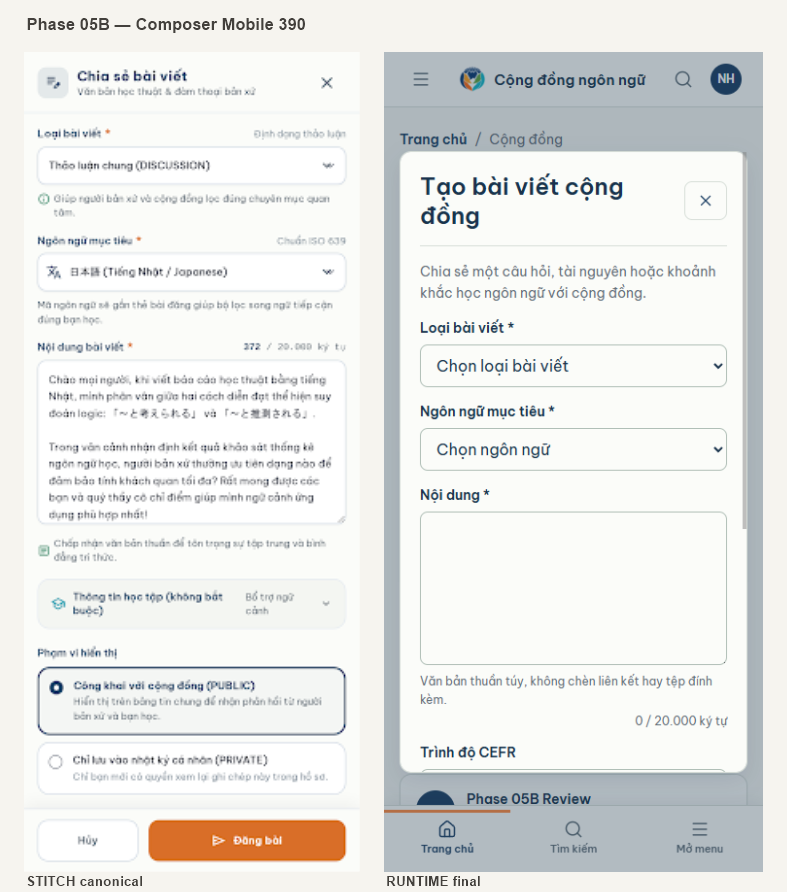
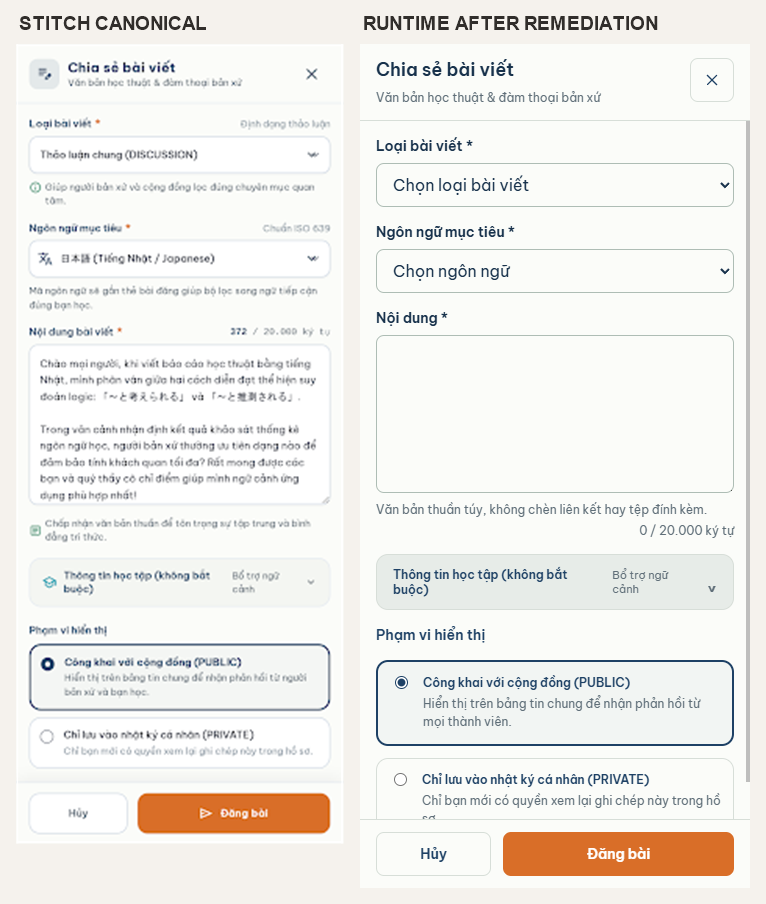
docs(phase-05): record composer visual remediation

diff --git a/evidence/phase-05b/COMPOSER-VISUAL-REMEDIATION-2026-09-14.md b/evidence/phase-05b/COMPOSER-VISUAL-REMEDIATION-2026-09-14.md
@@ -1,0 +1,172 @@
+# Phase 05B — Composer Visual Fidelity Remediation
+
+Date: 2026-09-14
+
+This is an appended Phase 05B evidence record. Existing Feed, migration,
+language-seed, API, and Phase 05A history is preserved. Canonical Stitch
+screens were reused without regeneration.
+
+## Scope and safety
+
+FRONTEND_BASELINE=89ed2da56112764d0c3652425639b77888a45a81
+FRONTEND_REMEDIATION_SHA=00727560aa5886f5780a58ba6d46746254c29248
+WORKSPACE_BASELINE=d44c9b71354b06d105d059937d7d237e7781e25b
+BACKEND_SHA=85066b6c9e75a7f8a4339d2cc8415a7c627c7494
+DATABASE_TEST_AUTHORIZED=YES
+PRODUCTION_DATABASE_TOUCHED=NO
+BACKEND_SOURCE_CHANGED=NO
+MIGRATIONS_CHANGED=NO
+FEED_SOURCE_CHANGED=NO
+
+The runtime used the existing authenticated session and the owner-authorized
+Neon TEST database. No credentials, production data, migrations, or unrelated
+records were changed.
+
+## Canonical Stitch references
+
+STITCH_PROJECT=3718538619973058970
+COMPOSER_STITCH_DESKTOP=b7320fdfb139424e84e11d42f42a4525
+COMPOSER_STITCH_MOBILE=93e2741039e446938f56a1341980c77d
+
+## Remediation applied
+
+- Composer title and desktop/mobile description now match the canonical
+  product copy.
+- Optional CEFR and topic fields are grouped under the canonical learning
+  information section; the section is expanded on desktop and collapsed on
+  mobile when opened.
+- Visibility uses accessible PUBLIC/PRIVATE radio cards with the backend
+  contract values unchanged.
+- Publish and Cancel are rendered in a fixed dialog footer, with the mobile
+  two-column action ratio and safe-area padding.
+- Composer uses a fixed header/footer with one internal scroll region and
+  locks page-body scrolling while open.
+- No title, media, upload, rich-text, autosave, comment, detail, or other
+  unsupported feature was added.
+
+## Runtime captures
+
+Canonical rasters, final runtime captures, and side-by-side comparisons:
+
+- evidence/phase-05b/composer_stitch_desktop.png
+- evidence/phase-05b/composer_runtime_desktop.png
+- evidence/phase-05b/composer_side_by_side.png
+- evidence/phase-05b/composer_stitch_mobile.png
+- evidence/phase-05b/composer_runtime_mobile.png
+- evidence/phase-05b/composer_mobile_side_by_side.png
+
+Historical pre-remediation captures were preserved as
+composer_runtime_desktop_before-remediation.png,
+composer_runtime_mobile_before-remediation.png,
+composer_side_by_side_before-remediation.png, and
+composer_mobile_side_by_side_before-remediation.png.
+
+## Desktop comparison
+
+DESKTOP_RUNTIME_VIEWPORT=1440x900
+DESKTOP_DIALOG_GEOMETRY=700px wide; x=370; y=67.5; height=765px
+DESKTOP_BODY_SCROLL=clientHeight=574px; scrollHeight=746px; overflow-y=auto
+DESKTOP_FOOTER=bottom-fixed within dialog; Publish and Cancel remain reachable
+DESKTOP_BODY_SCROLL_LOCK=body overflow hidden
+VISUAL_COMPOSER_DESKTOP=PASS
+DESKTOP_MATERIAL_DIFFERENCES=NONE
+
+The runtime preserves the canonical field order, title hierarchy, grouped
+optional metadata, visibility treatment, fixed footer action placement, and
+internal scrolling model. The Feed remains visible behind the modal without
+being structurally changed.
+
+## Mobile comparison
+
+MOBILE_RUNTIME_VIEWPORT=390x844
+MOBILE_DIALOG_GEOMETRY=full-screen 390px by 844px sheet
+MOBILE_HEADER_HEIGHT=76.59px
+MOBILE_BODY_SCROLL=clientHeight=698px; scrollHeight=737px; overflow-y=auto
+MOBILE_FOOTER=bottom-fixed; 1fr Cancel / 2fr Publish; safe-area padding
+MOBILE_BODY_SCROLL_LOCK=body overflow hidden
+MOBILE_HORIZONTAL_OVERFLOW=none
+VISUAL_COMPOSER_390=PASS
+MOBILE_MATERIAL_DIFFERENCES=NONE
+
+The learning-information disclosure is collapsed on initial mobile open,
+visibility cards stack without clipping, and both actions remain reachable
+inside the viewport.
+
+## Functional and runtime regression
+
+COMPOSER_AUTH_SESSION=PASS
+EMPTY_REQUIRED_VALIDATION=PASS
+WHITESPACE_ONLY_VALIDATION=PASS
+PRIVATE_VISIBILITY_CONTRACT=PASS
+PUBLISH_AFTER_REMEDIATION=PASS
+PUBLISH_REQUEST=POST /api/v1/community/posts -> 201
+FEED_CARDS_BEFORE_PUBLISH=5
+FEED_CARDS_AFTER_PUBLISH=6
+MATCHING_NEW_TEST_CARD=1
+TEST_POSTS_ADDED_BY_THIS_REMEDIATION=1
+VISUAL_REVIEW_DATA=NEON_TEST_ONLY
+
+The new post was created through the live Composer path against the real
+Backend. It produced one matching Feed card and no duplicate card. The
+existing Phase 05B TEST review data remains in place; no broad cleanup ran.
+
+The earlier Phase 05B evidence remains the source for the already-passed
+language filter, cursor, Helpful, Save, Share, Report, API, and authentication
+checks. The Feed visual locks remain unchanged:
+
+FEED_VISUAL_1440=PASS
+FEED_VISUAL_390=PASS
+
+## Responsive and accessibility checks
+
+RESPONSIVE_320=PASS
+RESPONSIVE_375=PASS
+RESPONSIVE_390=PASS
+RESPONSIVE_412=PASS
+RESPONSIVE_768=PASS
+RESPONSIVE_1024=PASS
+RESPONSIVE_1440=PASS
+
+All checked widths had no horizontal overflow. The dialog had one scrollable
+content region, no body-scroll leakage, no clipped actions, and no nested
+scrollbar introduced by the remediation. Long Vietnamese and CJK content
+remained readable in the existing Feed review.
+
+ACCESSIBILITY=PASS
+Accessibility tree review confirmed dialog naming, field labels, radio-group
+semantics, validation alerts, focus containment while open, focus restoration
+after Cancel, visible action targets, and mobile reachability.
+
+LIGHTHOUSE_FEED_SNAPSHOT=Accessibility 100; Best Practices 100; SEO 100; Agentic Browsing 100; 38 passed; 0 failed
+LIGHTHOUSE_COMPOSER_OPEN_SNAPSHOT=Accessibility 97; Best Practices 100; SEO 100; Agentic Browsing 100; supporting snapshot only
+
+APPLICATION_CONSOLE_ERRORS=0
+UNEXPECTED_NETWORK_ERRORS=0
+NETWORK_RUNTIME=real local Frontend -> real local Backend; community feed 200 and publish 201
+
+## Verification and delivery state
+
+TESTS=25 files; 109 tests passed
+TYPECHECK=PASS
+LINT=PASS
+BUILD=PASS
+AUDIT=0 vulnerabilities at high threshold
+
+PHASE_05=IN_PROGRESS
+LNG_05_001=DONE
+LNG_05_002=VERIFYING
+LNG_05_003=VERIFYING
+LNG_05_004=VERIFYING
+LNG_05_005=VERIFYING
+LNG_05_006=VERIFYING
+LNG_05_007=PLANNED
+
+FRONTEND_CHANGED=YES
+WORKSPACE_CHANGED=YES
+BACKEND_CHANGED=NO
+PUSHED=NO
+DEPLOYED=NO
+PHASE_05C_STARTED=NO
+PHASE_06_STARTED=NO
+
+Owner visual acceptance is not marked DONE.
